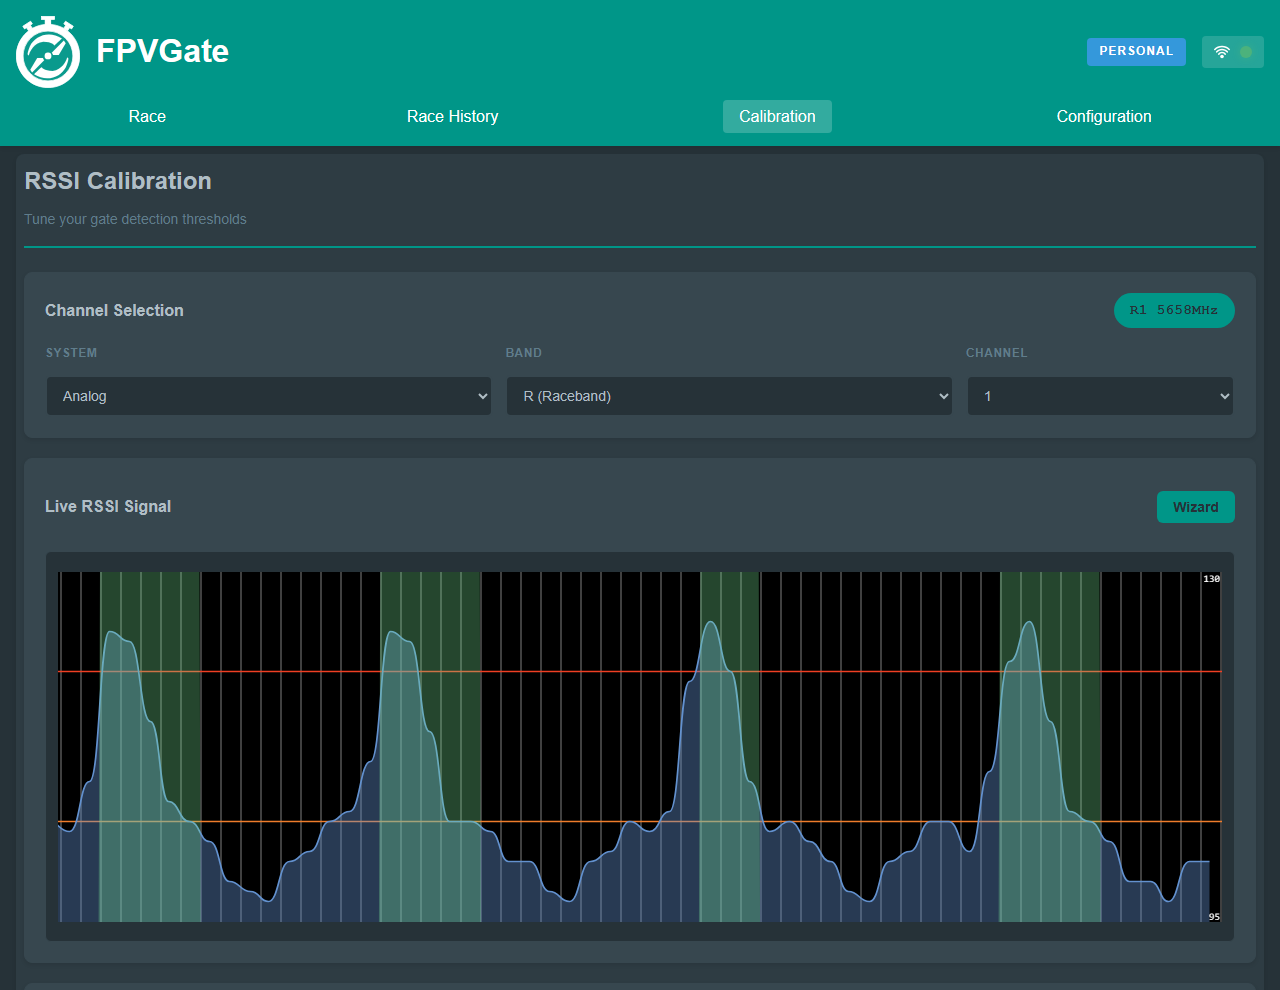
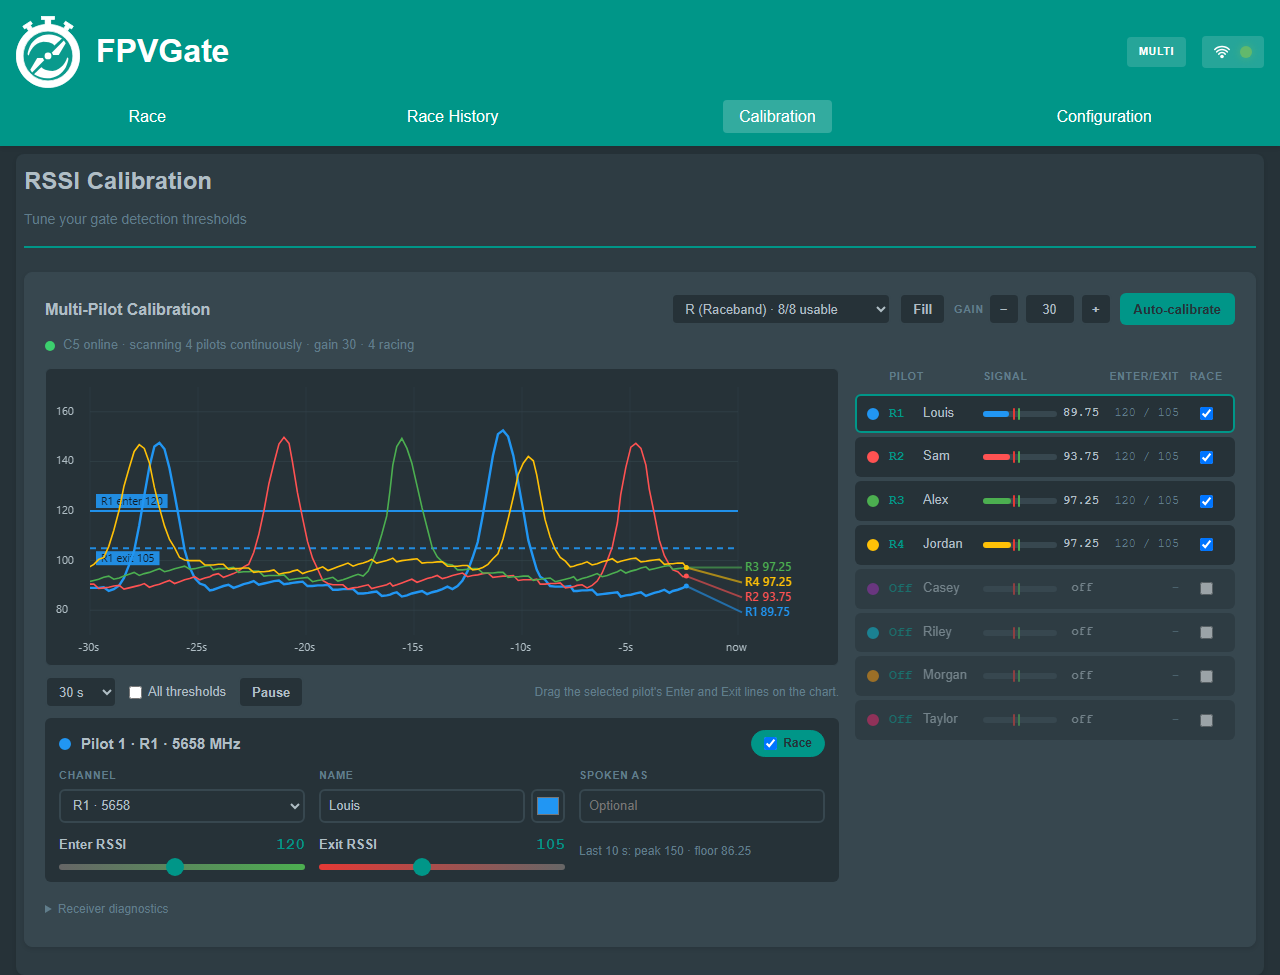
Show the multi-pilot calibration screen in the README

diff --git a/README.md b/README.md
@@ -57,7 +57,7 @@ even with no browser open.
 |:---:|:---:|
 | ![Event Mode with a 12-pilot roster, three groups, a rotating heat order and Elo ratings](screenshots/v1.9.0/event-mode.png) | ![A saved four-pilot race with its timeline, lap table and fastest laps](screenshots/v1.9.0/race-history.png) |
 | **Calibration** | **Settings** |
-| ![Live RSSI graph with three passes crossing the Enter and Exit thresholds](screenshots/v1.9.0/calibration.png) | ![Lap and announcer settings](screenshots/v1.9.0/settings.png) |
+| ![Multi-pilot calibration: four pilots' live signals with passes, the selected pilot's Enter and Exit lines, and a card per pilot](screenshots/v1.9.0/calibration.png) | ![Lap and announcer settings](screenshots/v1.9.0/settings.png) |
 
 <details>
 <summary><b>Single-pilot race and phone view</b></summary>
